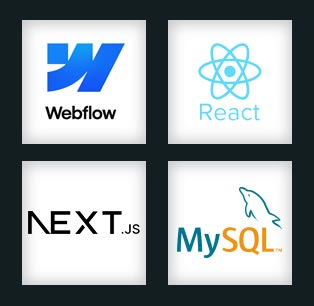
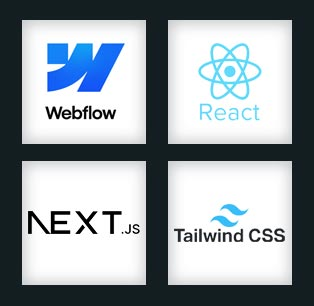
Fixed mobile menu and modal window

Changed region(s): [[0.5446, 0.5882, 0.9172, 0.8529]]

diff --git a/src/components/Nav/index.tsx b/src/components/Nav/index.tsx
@@ -2,6 +2,8 @@
 import { useState, useEffect } from 'react';
 import Image from "next/image";
 import Link from 'next/link';
+import { Menu, X } from 'lucide-react';
+import { link } from 'fs/promises';
 
 const navLinks = [
   { name: 'About', href: '#about' },
@@ -12,6 +14,10 @@ const navLinks = [
 
 export function Navbar() {
   const [activeSection, setActiveSection] = useState('');
+  const [isOpen, setIsOpen] = useState(false);
+
+  // Close menu when a link is clicked
+  const toggleMenu = () => setIsOpen(!isOpen);
 
   useEffect(() => {
     const handleScroll = () => {
@@ -45,52 +51,101 @@ export function Navbar() {
   }, []);
 
   return (
-    <nav className="fixed top-0 w-full h-[104px] bg-white backdrop-blur-md z-50 border-b border-white flex items-center justify-between px-10">
-      {/* Logo */}
-      <Link href="/" className="flex items-center">
-        <Image 
-          src="/images/logo/lara-logo-final.svg"  // Direct path to public folder
-          alt="Lara Krefski logo"
-          width={394}
-          height={83}
-          priority
-          className="h-auto w-[250px] md:w-[300px] lg:w-[394px] object-contain"
-        />      
-      </Link>
+    <>
+      <nav className="fixed top-0 w-full h-[80px] md:h-[104px] bg-white z-50 border-b border-gray-100 flex items-center justify-between px-6 md:px-10">
+      
+        {/* Logo */}
+        <Link href="/" className="flex items-center">
+          <Image 
+            src="/images/logo/lara-logo-final.svg"  // Direct path to public folder
+            alt="Lara Krefski logo"
+            width={394}
+            height={83}
+            priority
+            className="h-auto w-[270px] md:w-[375px] object-contain"
+          />      
+        </Link>
 
+        {/* Desktop Links - Hidden on Mobile/Tablet */}
+        <ul className="hidden lg:flex items-center space-x-10">
+          {navLinks.map((link) => {
+            const isContact = link.name === 'Contact Me';
+            const isActive = activeSection === link.href;
 
-      {/* Links */}
-      <ul className="flex items-center space-x-12">
-        {navLinks.map((link) => {
-          const isContact = link.name === 'Contact Me';
-          const isActive = activeSection === link.href;
+            return (
+              <li key={link.name} className="relative flex items-center h-full">
+                <a
+                  href={link.href}
+                  className={`
+                    relative font-display text-[1.2rem] xl:text-[1.5rem] font-bold uppercase transition-opacity hover:opacity-80 text-[#141e22]
+                    ${isContact 
+                      ? 'bg-[#90C9E1] px-[10px] pt-[5px] pb-[1px] rounded-sm'
+                      : 'py-2'
+                    }
+                  `}
+                >
+                  {link.name}
 
-          return (
-            <li key={link.name} className="relative flex items-center h-full">
-              <a
-                href={link.href}
-                className={`
-                  relative font-display text-[1.5rem] font-bold uppercase transition-opacity hover:opacity-80 text-[#141e22]
-                  ${isContact 
-                    ? 'bg-[#90C9E1] px-[10px] pt-[5px] pb-[1px] rounded-sm'
-                    : 'py-2'
-                  }
-                `}
-              >
-                {link.name}
+                  {/* Active Underline: Only shows for non-contact links when active */}
+                  {isActive && !isContact && (
+                    <span 
+                      className="absolute bottom-0 left-0 w-full h-[4px] bg-[#90c9e1]" 
+                      aria-hidden="true"
+                    />
+                  )}
+                </a>
+              </li>
+            );
+          })}
+        </ul>
 
-                {/* Active Underline: Only shows for non-contact links when active */}
-                {isActive && !isContact && (
-                  <span 
-                    className="absolute bottom-0 left-0 w-full h-[4px] bg-[#90c9e1]" 
-                    aria-hidden="true"
-                  />
-                )}
-              </a>
-            </li>
-          );
-        })}
-      </ul>
-    </nav>
+        {/* Mobile Menu Toggle Button */}
+        <button 
+          className="lg:hidden z-50 text-[#141e22]" 
+          onClick={toggleMenu}
+          aria-label="Toggle Menu"
+        >
+          {isOpen ? <X size={32} /> : <Menu size={32} />}
+        </button>
+      </nav>
+
+      {/* Mobile Overlay Menu */}
+      <div className={`
+        fixed left-0 w-full bg-white shadow-xl transition-transform duration-500 ease-in-out z-40 
+        top-[80px] md:top-[104px]
+        ${isOpen ? 'translate-y-0' : '-translate-y-full'}
+      `}>
+        {/* 1. We removed h-screen. Now it only grows to fit the links.
+            2. We start with a spacer to clear the main Navbar (80px on mobile).
+        */}
+        <div className="flex flex-col w-full pb-10 border-t border-gray-50">
+          <nav className="px-10 pt-6">
+            <ul className="flex flex-col space-y-6">
+              {navLinks.map((link) => {
+                const isContact = link.name === 'Contact Me';
+
+                return (
+                  <li key={link.name} className="border-b border-gray-50 pb-4 last:border-0">
+                    <a
+                      href={link.href}
+                      onClick={toggleMenu}
+                      className={`
+                        block font-display text-2xl font-bold uppercase transition-colors
+                        ${isContact 
+                          ? 'bg-[#90C9E1] text-[#141e22] px-6 py-2 rounded-sm inline-block' 
+                          : 'text-[#141e22]'
+                        }
+                      `}
+                    >
+                      {link.name}
+                    </a>
+                  </li>
+                );
+              })}
+            </ul>
+          </nav>
+        </div>
+      </div>
+    </>
   );
 }

diff --git a/src/components/Hero/index.tsx b/src/components/Hero/index.tsx
@@ -2,8 +2,13 @@ import Image from "next/image";
 
 export function Hero() {
   return (
-    <section className="relative w-full h-[70dvh] lg:h-[80dvh] flex flex-col overflow-hidden">
-      {/* Background Image with Overlay */}
+    
+    /* THE HEIGHT LOGIC:
+        - Mobile/iPad: Use 'h-auto' so the section only grows as tall as the content + spacers.
+        - Desktop/iPad Pro: Keep the fixed 'lg:h-[750px]' for that premium look.
+    */
+    <section className="relative w-full h-auto lg:h-[750px] flex flex-col bg-[#141e22] overflow-hidden">
+      {/* Background Image */}
       <div className="absolute inset-0 z-0">
         <Image
           src="/images/backgrounds/hero-bg-image.jpg"
@@ -15,33 +20,34 @@ export function Hero() {
         />
       </div>
 
-      <div className="absolute inset-0 bg-black/40 z-10" aria-hidden="true" />
+      <div className="relative z-20 flex flex-col w-full lg:h-full lg:justify-center">
+        <div className="h-[104px] w-full shrink-0" /> {/* Navbar Height */}
+        <div className="h-10 md:h-16 lg:h-20 w-full shrink-0" /> {/* Top Spacer */}
 
-      <div className="relative z-20 flex flex-col h-full">
-        <div className="h-[104px] w-full shrink-0" />
 
-        <div className="flex-grow flex items-center justify-center px-6">
-          <div className="max-w-6xl w-full text-white text-center py-12 lg:py-16">
-            <h2 className="text-2xl [font-family:var(--font-orkney)] uppercase tracking-widest mb-4 opacity-80 font-bold">
+          <div className="max-w-5xl w-full text-white text-center px-6 md:px-10 mx-auto">
+
+            <h2 className="text-xl md:text-2xl [font-family:var(--font-orkney)] uppercase tracking-widest mb-4 opacity-80 font-bold">
               Principal Web Engineer & Engineering Manager
             </h2>
-            <h1 className="text-4xl font-display font-bold md:text-6xl mb-6 leading-tight text-[#90C9E1]">
+            <h1 className="text-3xl sm:text-4xl md:text-6xl font-display font-bold mb-6 leading-tight text-[#90C9E1]">
               Building Scalable Ecosystems at the Intersection of Code and Operations.
             </h1>
-            <p className="font-sans text-xl md:text-2xl mb-10 opacity-90 max-w-5xl mx-auto">
-              With 25+ years of front-end expertise, I architect high-velocity ecosystems that decouple engineering from marketing. This empowers teams to build, test, and scale at the speed of business, removing the technical bottleneck.
+            <p className="font-sans text-lg md:text-2xl mb-10 opacity-90 max-w-4xl mx-auto">
+              With 10+ years of front-end expertise, I architect high-velocity ecosystems that decouple engineering from marketing. This empowers teams to build, test, and scale at the speed of business, removing the technical bottleneck.
             </p>
-        
-            <div className="flex flex-col md:flex-row gap-4 justify-center">
-              <a href="#projects" className="inline-flex items-center justify-center leading-none bg-[#90C9E1] hover:opacity-80 transition-opacity text-[#141e22] text-2xl uppercase px-6 py-2 rounded-xl font-bold transition-all">
+      
+            <div className="flex flex-col sm:flex-row gap-4 justify-center items-center">
+              <a href="#projects" className="inline-flex items-center justify-center leading-none bg-[#90C9E1] hover:opacity-80 transition-opacity text-[#141e22] text-xl md:text-2xl uppercase px-6 py-2 rounded-xl font-bold transition-all">
                 View My Work
               </a>
-              <a href="/lara-krefski-resume.pdf" target="_blank" className="inline-flex items-center justify-center leading-none hover:opacity-80 transition-opacity border-3 border-[#90C9E1] text-white text-2xl uppercase px-6 py-2 rounded-xl font-bold transition-all">
+              <a href="/lara-krefski-resume.pdf" target="_blank" className="inline-flex items-center justify-center leading-none hover:opacity-80 transition-opacity border-3 border-[#90C9E1] text-white text-xl md:text-2xl uppercase px-6 py-2 rounded-xl font-bold transition-all">
                 Download Resume
               </a>
             </div>
-          </div>
+          
         </div>
+        <div className="h-16 md:h-16 lg:h-20 w-full shrink-0" /> {/* Bottom Spacer */}
       </div>
     </section>
   );

diff --git a/src/components/About/index.tsx b/src/components/About/index.tsx
@@ -11,31 +11,20 @@ export function About() {
           </h2>
         </div>
 
-        <div className="grid grid-cols-1 md:grid-cols-12 gap-12 items-center">
+        <div className="flex flex-col tablet-lg:grid tablet-lg:grid-cols-12 gap-12 items-center">
           {/* Left Column */}
-          <div className="md:col-span-8 space-y-6">
+          <div className="tablet-lg:col-span-8 space-y-6 order-1">
             <h3 className="text-2xl md:text-[2.2rem] font-sans font-extrabold text-[#141e22]">
               The Right Tool for the Job
             </h3>
             <p className="text-base text-[#141e22] leading-relaxed">
-              In my 25 years of building for the web, I’ve learned that the
-              &quot;best&quot; technology is the one that actually helps a business grow.
-              I’ve spent years architecting complex, custom sites from the
-              ground up using React and Next.js, so I know exactly what goes
-              into building a high-performance application.
+              In my 10+ years of building for the web, I’ve learned that the &quot;best&quot; technology is the one that actually helps a business grow. I’ve spent years architecting complex, custom applications from the ground up using React and Next.js, so I know exactly what goes into building a high-performance ecosystem at scale.
             </p>
             <p className="text-base text-[#141e22] leading-relaxed">
-              Today, I often lean into Webflow because of the incredible speed
-              it offers. I use my engineering background to push Webflow
-              further—like building custom ROI calculators in JavaScript—while
-              utilizing the Webflow CMS to keep content management simple.
+              Today, I often lean into Webflow because of the incredible speed it offers for high-velocity marketing. I use my engineering background to push Webflow further—like building custom logic in JavaScript and utilizing Tailwind CSS principles to maintain a clean, professional design system—while keeping content management simple for the whole team.
             </p>
             <p className="text-base text-[#141e22] leading-relaxed">
-              Whether I’m coding a custom application in Next.js or a
-              high-velocity marketing site in Webflow, my goal is the same:
-              building a reliable, scalable foundation (backed by my experience
-              in MySQL and Sanity) that removes technical bottlenecks and lets
-              the business move at full speed.
+              Whether I’m coding a custom application in Next.js or a high-performance site in Webflow, my goal is the same: building a reliable, scalable foundation that removes technical bottlenecks and lets the business move at full speed.
             </p>
 
             {/* Container for the two bullet points */}
@@ -69,12 +58,11 @@ export function About() {
                   Principal Front-End Engineer
                 </p>
               </div>
-
             </div>
           </div>
 
           {/* Right Column */}
-          <div className="md:col-span-4 relative aspect-square overflow-hidden">
+          <div className="tablet-lg:col-span-4 w-full max-w-md tablet-lg:max-w-none mx-auto relative aspect-square overflow-hidden order-2">
             <Image
               src="/images/about/about-square-image.jpg"
               alt="Webflow, React, Next.js, and MySQL logos"

diff --git a/src/components/ProjectGallery/index.tsx b/src/components/ProjectGallery/index.tsx
@@ -1,5 +1,5 @@
 "use client";
-import { useState } from 'react';
+import { useState, useEffect } from 'react';
 import Image from 'next/image';
 import { Project } from '@/types/project';
 import { ProjectModal } from '../ProjectModal'; 
@@ -11,6 +11,22 @@ interface ProjectGalleryProps {
 
 export function ProjectGallery({ projects }: ProjectGalleryProps) {
   const [selectedProject, setSelectedProject] = useState<Project | null>(null);
+
+  // Lock/Unlock scroll logic
+  useEffect(() => {
+    if (selectedProject) {
+      // Prevent scrolling on the background
+      document.body.style.overflow = 'hidden';
+    } else {
+      // Re-enable scrolling when modal is closed
+      document.body.style.overflow = 'unset';
+    }
+
+    // Cleanup function: ensures scrolling is restored if the component unmounts
+    return () => {
+      document.body.style.overflow = 'unset';
+    };
+  }, [selectedProject]);
 
   return (
     <section className="py-20 bg-slate-200" id="projects">

diff --git a/tailwind.config.ts b/tailwind.config.ts
@@ -13,6 +13,9 @@ const config: Config = {
         // Use Orkney for headings or specific brand elements
         display: ['orkney', 'var(--font-orkney)', 'sans-serif'],
       },
+      screens: {
+        'tablet-lg': '820px',
+      },
     },
   },
   plugins: [],
